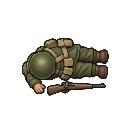
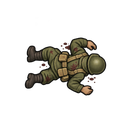
Shrink foot bases and add distinct silhouettes and directional fallen bodies

Changed region(s): [[0.1562, 0.2812, 0.875, 0.75]]

diff --git a/src/render/phaser/world-renderer.ts b/src/render/phaser/world-renderer.ts
@@ -21,7 +21,8 @@ import { cueContextFromView, eventCues, type Cue, type TracerStyle } from '../ev
 import { rectViewCenter } from '../geometry';
 import { interpPos, lerp, lerpAngle, nearById, SNAP_DISTANCE } from '../interp';
 import { emptyVisual, soldierVisual } from '../soldier-style';
-import { pilotMiniature } from '../pilot-miniatures';
+import { pilotMiniature, corpsePose } from '../pilot-miniatures';
+import { INFANTRY_BASE_SCALE, INFANTRY_FIGURE_SCALE } from '../../content/miniatures';
 import { flagHeights } from '../../sim/entities/capture-point';
 import { FreeList, KeyedPool } from './pool';
 import type { SoundBank } from './sound-bank';
@@ -762,24 +763,30 @@ export class WorldRenderer {
       }
       const mini = pilotMiniature(s.roleId, s.role, s.alive);
       const texture = mini?.figure ?? v.texture;
-      const opacity = mini && !s.alive ? v.alpha * 0.55 : v.alpha;
+      const opacity = mini && !s.alive ? Math.max(v.alpha, 0.55) : v.alpha;
+      const pose = mini && !s.alive ? corpsePose(px, py, s.deathDirection ?? s.facing, r) : null;
+      const figureX = pose?.x ?? px;
+      const figureY = pose?.y ?? py;
+      const figureFacing = pose?.facing ?? facing;
       if (mini) {
         v.label = null; // Numbers stay on the timeline, not the miniature.
-        const scale = (r * 2) / fitPx(mini.base);
-        this.miniatureBases
-          .get(s.id)
-          .setTexture(mini.base)
-          .setPosition(px, py)
-          .setRotation(0)
-          .setScale(scale)
-          .setAlpha(opacity)
-          .setDepth(v.depth - 0.1);
+        const scale = (r * 2) / fitPx(mini.figure);
+        if (mini.base) {
+          this.miniatureBases
+            .get(s.id)
+            .setTexture(mini.base)
+            .setPosition(px, py)
+            .setRotation(0)
+            .setScale(scale * INFANTRY_BASE_SCALE)
+            .setAlpha(opacity)
+            .setDepth(v.depth - 0.1);
+        }
         this.miniatureShadows
           .get(s.id)
           .setTexture('mini_shadow_infantry')
-          .setPosition(px + shadowDx, py + shadowDy)
+          .setPosition(figureX + shadowDx, figureY + shadowDy)
           .setRotation(0)
-          .setScale(scale)
+          .setScale(scale * (s.alive ? INFANTRY_BASE_SCALE : 0.8))
           .setAlpha(opacity)
           .setDepth(v.depth - 0.2);
       }
@@ -787,8 +794,8 @@ export class WorldRenderer {
       // (06-c) Only touch what changed: most soldiers in a crowd (corpses, statics, waiting
       // echoes) are still, and each setter call stores fresh numbers on the sprite.
       spr.setTexture(texture).setDepth(v.depth);
-      if (spr.x !== px || spr.y !== py) spr.setPosition(px, py);
-      if (spr.rotation !== facing) spr.setRotation(facing);
+      if (spr.x !== figureX || spr.y !== figureY) spr.setPosition(figureX, figureY);
+      if (spr.rotation !== figureFacing) spr.setRotation(figureFacing);
       // (PHASE12-b) Vehicles: the sprite grows to the body; a hull and turret go on top.
       const vBody = s.roleId === 'truck' || s.roleId === 'tank' ? VEHICLE_BODY[s.roleId] : 0;
       if (vBody > 0) {
@@ -803,7 +810,8 @@ export class WorldRenderer {
           alpha: opacity,
         });
       }
-      const scale = ((vBody > 0 ? vBody : r) * 2) / fitPx(texture);
+      const scale =
+        (((vBody > 0 ? vBody : r) * 2) / fitPx(texture)) * (mini ? INFANTRY_FIGURE_SCALE : 1);
       if (spr.scaleX !== scale || spr.scaleY !== scale) spr.setScale(scale);
       if (spr.alpha !== opacity) spr.setAlpha(opacity);
       // (PHASE12-d) The role icon on the circle, upright so it reads at a glance.
@@ -824,7 +832,7 @@ export class WorldRenderer {
         this.livePosBuf.y = py;
         this.livePos = this.livePosBuf;
       }
-      if (v.liveMarker) {
+      if (v.liveMarker && !mini) {
         const m = this.liveMarkers.get(s.id);
         const pulse = 1 + 0.06 * Math.sin(now / 160);
         m.setTexture('soldier_live_marker')

diff --git a/src/render/pilot-miniatures.test.ts b/src/render/pilot-miniatures.test.ts
@@ -1,6 +1,6 @@
 import { describe, expect, it } from 'vitest';
 import { ASSET_MANIFEST, fitPx } from '../content/assets';
-import { pilotMiniature } from './pilot-miniatures';
+import { pilotMiniature, corpsePose } from './pilot-miniatures';
 
 describe('pilot miniature layers', () => {
   it('changes ownership through the base finish while keeping the allied sculpt', () => {
@@ -17,17 +17,17 @@ describe('pilot miniature layers', () => {
     });
   });
 
-  it('uses the fallen faction on the role’s usual base shape and finish', () => {
+  it('removes the base and selects an unarmed fallen figure on death', () => {
     expect(pilotMiniature('shield', 'live', false)).toEqual({
-      base: 'mini_base_octagon_gold',
+      base: null,
       figure: 'mini_figure_fallen_ally',
     });
     expect(pilotMiniature('shield', 'echo', false)).toEqual({
-      base: 'mini_base_octagon_gold_tarnished',
+      base: null,
       figure: 'mini_figure_fallen_ally',
     });
     expect(pilotMiniature('shield', 'enemy', false)).toEqual({
-      base: 'mini_base_octagon_silver',
+      base: null,
       figure: 'mini_figure_fallen_enemy',
     });
   });
@@ -35,8 +35,25 @@ describe('pilot miniature layers', () => {
   it('falls back for undelivered roles, including vehicles', () => {
     for (const role of ['grenadier', 'gunner', 'shotgun', 'bazooka', 'truck', 'tank'] as const) {
       expect(pilotMiniature(role)).toBeNull();
-      expect(pilotMiniature(role, 'enemy', false)).toBeNull();
+      if (role === 'truck' || role === 'tank') {
+        expect(pilotMiniature(role, 'enemy', false)).toBeNull();
+      } else {
+        expect(pilotMiniature(role, 'enemy', false)).toEqual({
+          base: null,
+          figure: 'mini_figure_fallen_enemy',
+        });
+      }
     }
+  });
+
+  it('places a corpse away from the former base along the lethal hit direction', () => {
+    const south = corpsePose(100, 200, Math.PI / 2, 16);
+    expect(south.x).toBeCloseTo(100);
+    expect(south.y).toBeGreaterThan(216);
+    expect(south.facing).toBe(Math.PI / 2);
+    const west = corpsePose(100, 200, Math.PI, 16);
+    expect(west.x).toBeLessThan(84);
+    expect(west.y).toBeCloseTo(200);
   });
 
   it('loads every chosen layer through the manifest at a shared scale', () => {
@@ -46,6 +63,7 @@ describe('pilot miniature layers', () => {
         for (const alive of [true, false]) {
           const p = pilotMiniature(role, state, alive)!;
           for (const key of [p.base, p.figure] as const) {
+            if (key === null) continue;
             expect(ASSET_MANIFEST.some((a) => a.key === key)).toBe(true);
             expect(fitPx(key)).toBe(100);
           }

diff --git a/src/content/miniatures.ts b/src/content/miniatures.ts
@@ -75,8 +75,14 @@ export interface BaseSpec {
   look: string;
 }
 
-/** About 3 art px per world unit, everywhere, so every layer shares one scale. */
+/** Figure art scale; small infantry bases use INFANTRY_BASE_SCALE in the renderer. */
 export const ART_PX_PER_UNIT = 3.1;
+/** Foot-sized plinth; figures retain their original scale and overhang it. */
+export const INFANTRY_BASE_SCALE = 0.55;
+/** Normalize the sculpt, not the old oversized display base, for gameplay readability. */
+export const INFANTRY_FIGURE_SCALE = 1.6;
+/** Corpses fall off the former base position, in multiples of spriteRadius. */
+export const CORPSE_OFFSET_RADII = 1.25;
 
 export const BASES: Record<BaseShape, BaseSpec> = {
   round: {
@@ -183,9 +189,9 @@ const FIGURE_BRIEF: Record<RoleId, string> = {
   gunner:
     'Machine gunner: helmet, light machine gun with bipod legs folded out forward and an ammo belt / box on one side.',
   sniper:
-    'Sniper: slimmer body, soft hat or netted helmet, a LONG scoped rifle reaching far forward (the longest gun of the infantry).',
+    'Sniper: broad shaggy ghillie cloak and hood, ragged bush-like outline, long scoped rifle; full-sized body.',
   shield:
-    'Shield bearer: low helmet tucked behind a big curved ballistic shield that spans the whole front arc (about 135°), sidearm hand visible.',
+    'Shield bearer: beefy padded armor and thick shoulders, low helmet tucked behind a big curved ballistic shield that spans the whole front arc (about 135°), sidearm hand visible.',
   shotgun:
     'Shotgunner: bulkier padded shoulders, helmet, short heavy pump shotgun forward, shell bandolier across the chest.',
   bazooka:
@@ -249,7 +255,7 @@ export function miniatureFiles(): MiniFile[] {
       subject: 'fallen',
       faction,
       brief:
-        'The same kind of miniature knocked over: lying on its side/back on the base, helmet and weapon visible, ' +
+        'Unarmed fallen miniature: head toward +x, sprawled limbs, restrained blood marks, no base, ' +
         'darker and lower contrast than a standing figure so it reads as background.',
     });
   }

diff --git a/src/render/pilot-miniatures.ts b/src/render/pilot-miniatures.ts
@@ -1,10 +1,11 @@
 /** Delivered pilot only. Unsupported roles retain the original renderer. */
+import { CORPSE_OFFSET_RADII } from '../content/miniatures';
 import type { ImageKey } from '../content/assets';
 import type { RoleId } from '../contracts/mission';
 import type { SoldierRole } from '../sim/view';
 
 export interface MiniaturePiece {
-  base: ImageKey;
+  base: ImageKey | null;
   figure: ImageKey;
 }
 
@@ -20,9 +21,9 @@ function pieces(
     live: { base: gold, figure: ally },
     echo: { base: tarnished, figure: ally },
     enemy: { base: silver, figure: enemy },
-    fallenLive: { base: gold, figure: 'mini_figure_fallen_ally' },
-    fallenAlly: { base: tarnished, figure: 'mini_figure_fallen_ally' },
-    fallenEnemy: { base: silver, figure: 'mini_figure_fallen_enemy' },
+    fallenLive: { base: null, figure: 'mini_figure_fallen_ally' },
+    fallenAlly: { base: null, figure: 'mini_figure_fallen_ally' },
+    fallenEnemy: { base: null, figure: 'mini_figure_fallen_enemy' },
   };
 }
 
@@ -39,8 +40,20 @@ export function pilotMiniature(
   alive = true,
 ): MiniaturePiece | null {
   const set = PILOT[roleId];
-  if (!set) return null;
+  if (!set) {
+    if (alive || roleId === 'truck' || roleId === 'tank') return null;
+    return role === 'enemy' ? PILOT.rifleman!.fallenEnemy : PILOT.rifleman!.fallenAlly;
+  }
   if (!alive)
     return role === 'enemy' ? set.fallenEnemy : role === 'live' ? set.fallenLive : set.fallenAlly;
   return role === 'live' ? set.live : role === 'enemy' ? set.enemy : set.echo;
+}
+
+/** Head points along +x in fallen art. Keep this displacement out of sim collision geometry. */
+export function corpsePose(x: number, y: number, direction: number, radius: number) {
+  return {
+    x: x + Math.cos(direction) * radius * CORPSE_OFFSET_RADII,
+    y: y + Math.sin(direction) * radius * CORPSE_OFFSET_RADII,
+    facing: direction,
+  };
 }

diff --git a/src/sim/__tests__/combat.test.ts b/src/sim/__tests__/combat.test.ts
@@ -76,6 +76,30 @@ describe('soldier hp, death and flags', () => {
     expect(view).toMatchObject({ alive: false, deathCause: 'turret' });
   });
 
+  it('keeps the lethal hit direction in state and view for corpse placement and snapshots', () => {
+    const w = world(arena());
+    const id = soldierAt(w, { x: 300, y: 500 });
+    const s = getSoldier(w, id)!;
+    damageSoldier(w, s, 1, 'east', 'rifle', { x: 600, y: 500 });
+    expect(s.deathDirection).toBeUndefined();
+    damageSoldier(w, s, 1000, 'north', 'rifle', { x: 300, y: 100 });
+    expect(s.deathDirection).toBeCloseTo(Math.PI / 2); // north hit pushes south
+    expect(getView(w).soldiers[0]!.deathDirection).toBeCloseTo(Math.PI / 2);
+    expect(structuredClone(w.state).soldiers[0]!.deathDirection).toBe(s.deathDirection);
+    // Later hits cannot turn an already dead corpse.
+    damageSoldier(w, s, 1000, 'south', 'rifle', { x: 300, y: 900 });
+    expect(s.deathDirection).toBeCloseTo(Math.PI / 2);
+  });
+
+  it('uses the last facing for a directionless death', () => {
+    const w = world(arena());
+    const id = soldierAt(w, { x: 300, y: 500 });
+    const s = getSoldier(w, id)!;
+    s.facing = 1.2;
+    damageSoldier(w, s, 1000, undefined, 'test');
+    expect(s.deathDirection).toBe(1.2);
+  });
+
   it('minHp floors damage during a lead-in: hurt but never killed', () => {
     const w = world(arena());
     const id = soldierAt(w, { x: 100, y: 500 }, { minHp: 1 });

diff --git a/src/render/phaser/battle-scene.ts b/src/render/phaser/battle-scene.ts
@@ -19,6 +19,7 @@ import { DEPTH } from '../depth';
 import type { Vec2 } from '../../sim/core/vec';
 import { fitPx, type ImageKey } from '../../content/assets';
 import { pilotMiniature } from '../pilot-miniatures';
+import { INFANTRY_BASE_SCALE, INFANTRY_FIGURE_SCALE } from '../../content/miniatures';
 
 /** Debug countdown length (PHASE04's lead-in is 5 s too, [D5]). */
 const DEMO_COUNTDOWN_TICKS = 5 * TICKS_PER_SECOND;
@@ -374,8 +375,21 @@ export class BattleScene extends Phaser.Scene {
           .setRotation(rotation)
           .setVisible(true);
       };
-      layer('base', mini.base, 0, depth - 0.1);
+      if (mini.base) {
+        layer('base', mini.base, 0, depth - 0.1);
+        this.runners
+          .get(`${key}:base`)!
+          .setScale(
+            ((this.world.tuning.soldier.spriteRadius * 2) / fitPx(mini.base)) * INFANTRY_BASE_SCALE,
+          );
+      }
       layer('figure', mini.figure, at.facing, depth);
+      this.runners
+        .get(`${key}:figure`)!
+        .setScale(
+          ((this.world.tuning.soldier.spriteRadius * 2) / fitPx(mini.figure)) *
+            INFANTRY_FIGURE_SCALE,
+        );
     };
     // The live soldier, until it exists.
     this.runnerPos = null;

diff --git a/src/render/phaser/__fixtures__/gallery-fixture.ts b/src/render/phaser/__fixtures__/gallery-fixture.ts
@@ -71,6 +71,11 @@ export interface Caption {
 }
 
 export const GALLERY_CAPTIONS: Caption[] = [
+  ...['north hit → south fall', 'east hit → west fall', 'west hit → east fall'].map((text, i) => ({
+    x: 200 + i * 300,
+    y: 652,
+    text,
+  })),
   ...(['rifleman', 'sniper', 'shield'] as const).flatMap((role, ri) =>
     (['live', 'echo', 'enemy'] as const).map((state, si) => ({
       x: 110 + (ri * 3 + si) * 150,
@@ -168,6 +173,16 @@ function soldiers(tick: Tick): SoldierView[] {
         ),
       );
     }
+  }
+  for (const [i, direction] of [Math.PI / 2, Math.PI, 0].entries()) {
+    list.push(
+      soldier(`fallen-direction-${i}`, 200 + i, 200 + i * 300, 620, 'echo', {
+        roleId: 'rifleman',
+        alive: false,
+        hp: 0,
+        deathDirection: direction,
+      }),
+    );
   }
   // Crowd: live soldier among echoes and statics.
   const cx = col(5);

diff --git a/tools/miniatures.test.ts b/tools/miniatures.test.ts
@@ -186,8 +186,8 @@ describe('review sheet compositing', () => {
     drawPiece(b, piece, 100, 100, 100, Math.PI / 2);
     // facing +x at angle 0: dark pixel right of center; facing down (+y) at 90°: dark pixel below.
     const px = (c: Canvas, x: number, y: number) => c.data[(y * c.w + x) * 4]!;
-    expect(px(a, 140, 100)).toBeLessThan(0.2);
-    expect(px(b, 100, 140)).toBeLessThan(0.2);
-    expect(px(a, 100, 140)).toBeGreaterThan(0.4); // gold there at angle 0
+    expect(px(a, 120, 100)).toBeLessThan(0.2);
+    expect(px(b, 100, 120)).toBeLessThan(0.2);
+    expect(px(a, 100, 120)).toBeGreaterThan(0.4); // gold there at angle 0
   });
 });

diff --git a/tools/miniatures-lib.ts b/tools/miniatures-lib.ts
@@ -7,6 +7,8 @@ import { PNG } from 'pngjs';
 import { readFileSync } from 'node:fs';
 import {
   BASES,
+  INFANTRY_BASE_SCALE,
+  INFANTRY_FIGURE_SCALE,
   BASE_SHAPE_BY_ROLE,
   type BaseShape,
   type Colorway,
@@ -525,6 +527,6 @@ export function drawPiece(
 ): void {
   const scale = worldDiameter / p.fitPx;
   const cam = opts.cameraRotation ?? 0;
-  c.draw(p.base, x, y, cam, scale, opts.alpha ?? 1);
-  c.draw(p.figure, x, y, cam + facing, scale, opts.alpha ?? 1);
+  c.draw(p.base, x, y, cam, scale * INFANTRY_BASE_SCALE, opts.alpha ?? 1);
+  c.draw(p.figure, x, y, cam + facing, scale * INFANTRY_FIGURE_SCALE, opts.alpha ?? 1);
 }

diff --git a/src/sim/sim.ts b/src/sim/sim.ts
@@ -315,6 +315,7 @@ export function getView(world: World): WorldView {
           : (s.viewRole ?? (s.controllable ? 'live' : s.interactive ? 'echo' : 'static')),
       leadIn: s.minHp > 0,
       ...(s.deathCause ? { deathCause: s.deathCause } : {}),
+      ...(s.deathDirection !== undefined ? { deathDirection: s.deathDirection } : {}),
       ...(s.roleId ? { roleId: s.roleId } : {}),
       ...(s.drive ? { turret: s.drive.turret } : {}),
       ...(s.windupTicks > 0 && roleDef(s.roleId).weapon === 'grenade'

diff --git a/src/sim/entities/soldier.ts b/src/sim/entities/soldier.ts
@@ -88,6 +88,8 @@ export interface SoldierState {
   deathTick: Tick | null;
   /** e.g. 'turret', 'mine', 'vehicle', 'bridgeCollapse'. */
   deathCause: string | null;
+  /** Presentation only: direction away from the lethal damage source. */
+  deathDirection?: number;
   /**
    * (03-a) Presentation override for `WorldView.role`. Absent: derived from the flags
    * (controllable → live, interactive → echo, else static). 'live' marks the player's soldier

diff --git a/src/sim/view.ts b/src/sim/view.ts
@@ -29,6 +29,8 @@ export interface SoldierView {
   leadIn: boolean;
   /** (02-a) Dead soldiers only: what killed them ('turret', 'mine', 'vehicle', 'bridgeCollapse'). */
   deathCause?: string;
+  /** Presentation only: corpse falls along this direction, away from the lethal hit. */
+  deathDirection?: number;
   /** (07-c) Role ([D36]); absent = 'rifleman'. */
   roleId?: RoleId;
   /** (07-c) Grenadier winding up a throw: 0..1 of the ring ([D37]). */
